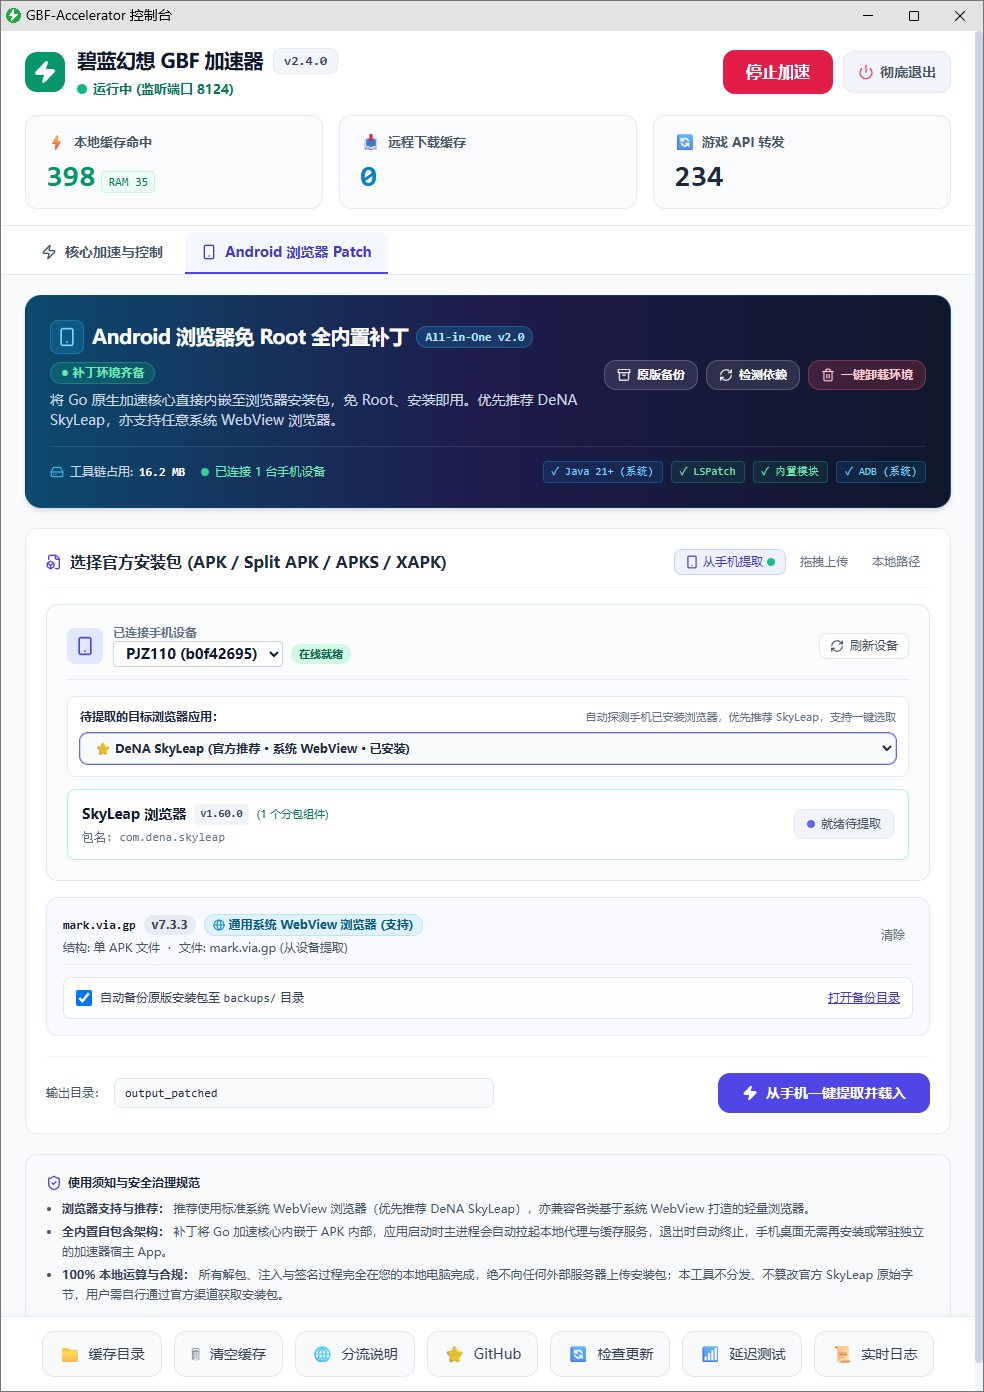
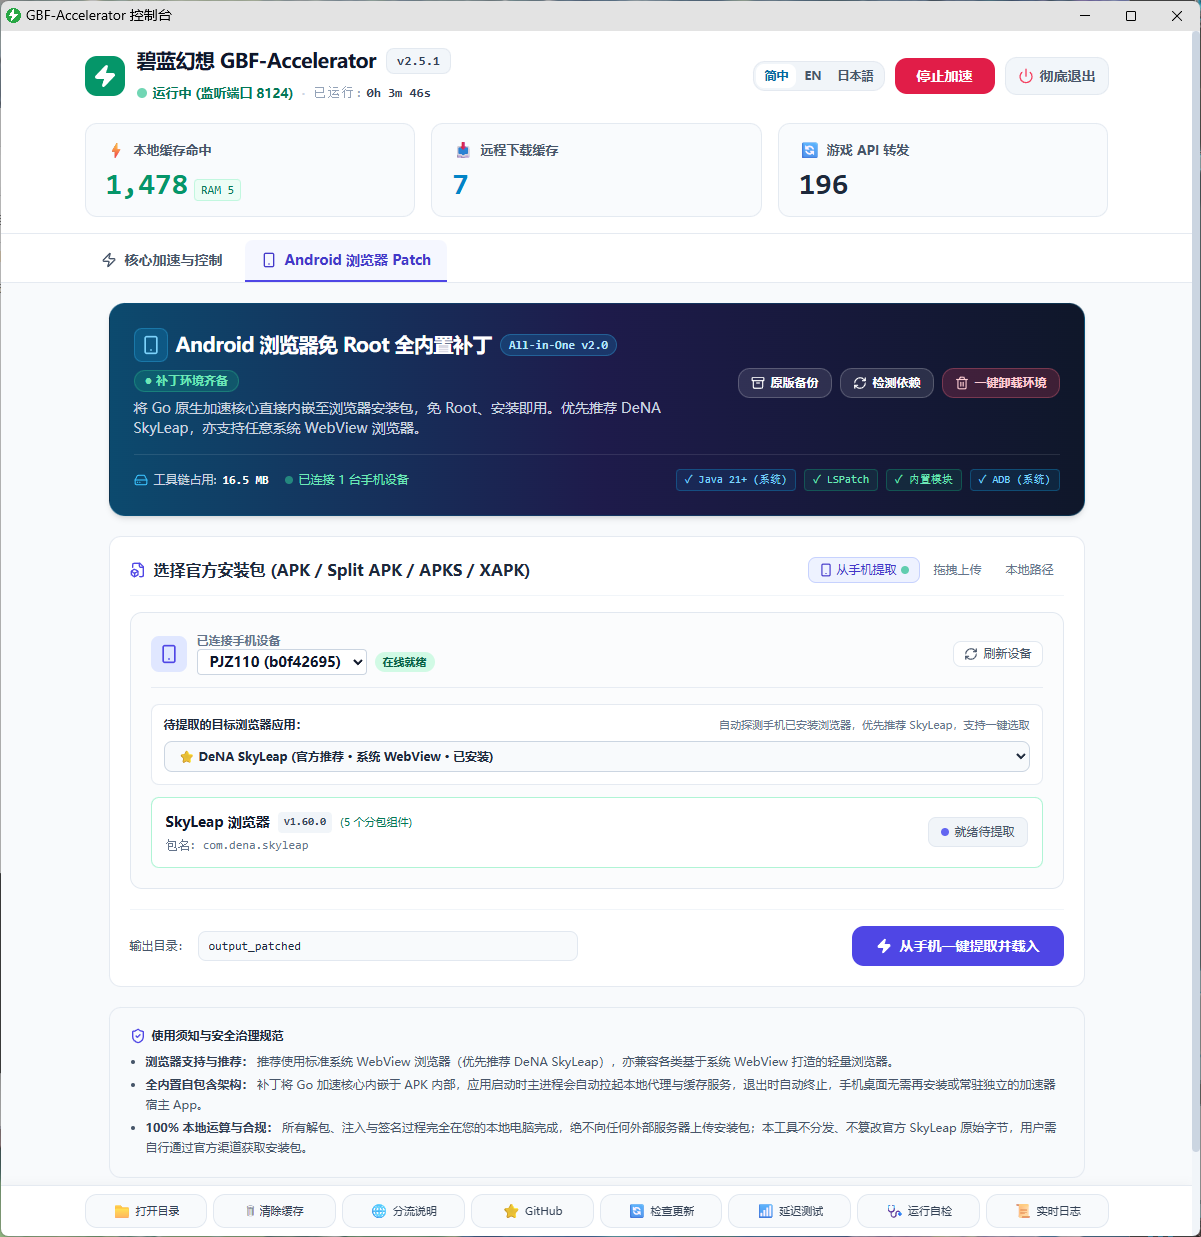
docs: update localized UI preview galleries with new screenshots and remove legacy mobile landing image
- Add localized screenshot assets for Chinese, English, and Japanese under docs/images/{zh,en,ja}

- Update README.md, README.en.md, and README.ja.md preview galleries with localized images

- Include new latency test and cache slimming modal captures

- Remove deprecated mobile landing page image

diff --git a/README.ja.md b/README.ja.md
@@ -27,15 +27,19 @@ GBF-Accelerator は、ローカルの RAM / SSD 階層化キャッシュと HTTP
 
 | Web コンソールダッシュボード | Android ブラウザ非Root 内蔵パッチツール |
 | :---: | :---: |
-| ![Web コンソールダッシュボード](docs/images/dashboard.png) | ![Android パッチツール](docs/images/android_patch.png) |
+| ![Web コンソールダッシュボード](docs/images/ja/dashboard.png) | ![Android パッチツール](docs/images/ja/android_patch.png) |
 
 | リアルタイムログ＆通信テレメトリ |
 | :---: |
-| ![リアルタイムログ](docs/images/live_logs.png) |
+| ![リアルタイムログ](docs/images/ja/live_logs.png) |
 
-| モバイル端末接続ガイド（コンソール） | LAN モバイル接続案内ページ（スマホ） |
+| モバイル端末接続ガイド | キャッシュ診断＆安全スリム化 |
 | :---: | :---: |
-| ![モバイル接続ガイド](docs/images/mobile_guide.png) | ![LAN案内ページ](docs/images/mobile_landing.png) |
+| ![モバイル端末接続ガイド](docs/images/ja/mobile_guide.png) | ![キャッシュ診断＆安全スリム化](docs/images/ja/clear_cache.png) |
+
+| デュアルルート遅延測定 |
+| :---: |
+| ![デュアルルート遅延測定](docs/images/ja/latency_test.png) |
 
 ---
 

diff --git a/README.md b/README.md
@@ -27,15 +27,21 @@
 
 | Web 控制台主面板 | Android 浏览器免 Root 全内置补丁 |
 | :---: | :---: |
-| ![Web 控制台主面板](docs/images/dashboard.png) | ![Android 浏览器免 Root 全内置补丁](docs/images/android_patch.png) |
+| ![Web 控制台主面板](docs/images/zh/dashboard.png) | ![Android 浏览器免 Root 全内置补丁](docs/images/zh/android_patch.png) |
 
 | 实时网络与转发日志 |
 | :---: |
-| ![实时网络与转发日志](docs/images/live_logs.png) |
+| ![实时网络与转发日志](docs/images/zh/live_logs.png) |
 
-| 移动端跨设备连接指引 (控制台) | 局域网移动端引导页 (手机浏览器) |
+| 移动端跨设备连接指引 | 智能缓存体检与安全瘦身 |
 | :---: | :---: |
-| ![移动端连接指引](docs/images/mobile_guide.png) | ![局域网移动端引导页](docs/images/mobile_landing.png) |
+| ![移动端跨设备连接指引](docs/images/zh/mobile_guide.png) | ![智能缓存体检与安全瘦身](docs/images/zh/clear_cache.png) |
+
+| 双路由智能延迟测速 |
+| :---: |
+| ![双路由智能延迟测速](docs/images/zh/latency_test.png) |
+
+---
 
 ## 架构设计与数据流向
 

diff --git a/README.en.md b/README.en.md
@@ -26,15 +26,19 @@ GBF-Accelerator caches static game assets (character portraits, audio, battle an
 
 | Web Console Dashboard | Android No-Root Browser Patcher Workbench |
 | :---: | :---: |
-| ![Web Console Dashboard](docs/images/dashboard.png) | ![Android No-Root Patcher](docs/images/android_patch.png) |
+| ![Web Console Dashboard](docs/images/en/dashboard.png) | ![Android No-Root Patcher](docs/images/en/android_patch.png) |
 
 | Real-Time Live Logs & Telemetry |
 | :---: |
-| ![Live Logs & Telemetry](docs/images/live_logs.png) |
+| ![Live Logs & Telemetry](docs/images/en/live_logs.png) |
 
-| Mobile Setup Guide (Console) | Mobile LAN Landing Page (Phone Browser) |
+| Mobile Setup Guide | Cache Health & Safe Slimming |
 | :---: | :---: |
-| ![Mobile Setup Guide](docs/images/mobile_guide.png) | ![Mobile LAN Landing Page](docs/images/mobile_landing.png) |
+| ![Mobile Setup Guide](docs/images/en/mobile_guide.png) | ![Cache Health & Safe Slimming](docs/images/en/clear_cache.png) |
+
+| Dual-Route Latency Benchmark |
+| :---: |
+| ![Dual-Route Latency Benchmark](docs/images/en/latency_test.png) |
 
 ---
 
